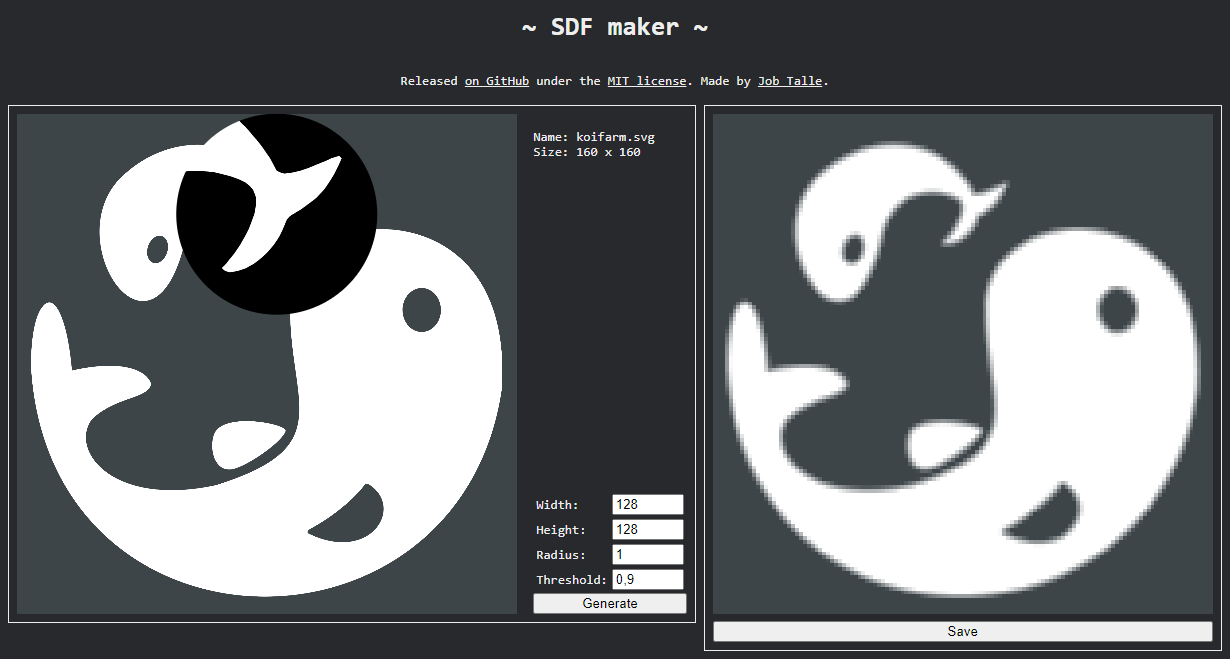
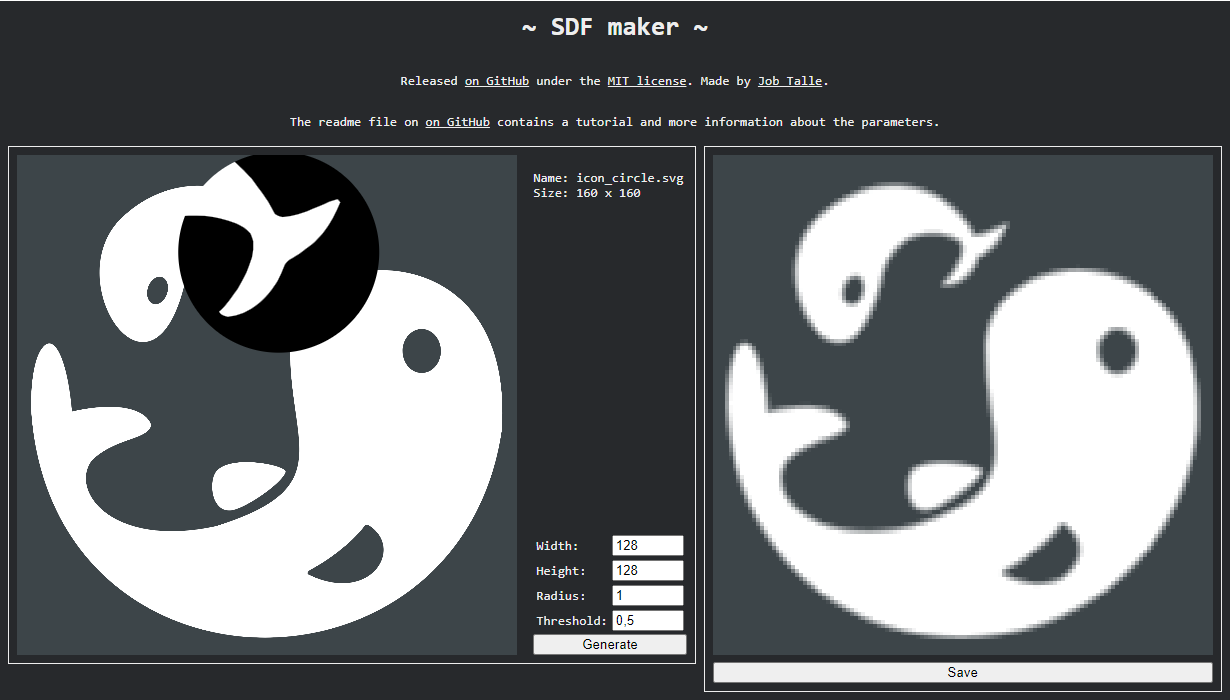
Improved edge anti aliasing quality in preview & example

diff --git a/js/gl/shaderPreview.js b/js/gl/shaderPreview.js
@@ -10,27 +10,31 @@ export class ShaderPreview extends Shader {
         uniform float aspect;
         uniform float zoom;
         uniform sampler2D source;
-        
+
         in vec2 vUv;
-        
+
         out vec4 color;
-        
+
         void main() {
             const float epsilon = .000001;
-            
+
             vec2 uv = vec2(vUv.x, 1. - vUv.y);
             vec2 delta = vec2(uv.x, uv.y / aspect) - center;
-            
+
             vec4 pixel = texture(source, center + (uv - center) / zoom);
-            
+
+            float distance = fwidth(pixel.a) * .5;
+            float lower = .5 - distance;
+            float upper = .5 + distance;
+
             color = vec4(
                 mix(
                     vec3(0.),
                     pixel.rgb,
-                    clamp((pixel.a - .5) / max(fwidth(pixel.a) * .5, epsilon), 0., 1.)),
+                    clamp((pixel.a - lower) / (upper - lower), 0., 1.)),
                 1. - clamp((length(delta) - radius) * radiusPixels, 0., 1.));
         }
-        `;
+    `;
 
     #uniformRadius;
     #uniformRadiusPixels;

diff --git a/README.md b/README.md
@@ -29,6 +29,7 @@ To render SDF textures, the alpha channel of a pixel should not be interpreted a
 
 ``` glsl
 vec4 pixel = texture(source, uv);
+
 vec4 color = vec4(pixel.rgb, step(0.5, pixel.a));
 ```
 
@@ -38,7 +39,12 @@ This example sets alpha to either `0` or `1`. Edges can also be anti aliased usi
 const float epsilon = 0.000001;
 
 vec4 pixel = texture(source, uv);
-float alpha = clamp((pixel.a - 0.5) / max(fwidth(pixel.a) * 0.5, epsilon), 0.0, 1.0);
+
+float distance = fwidth(pixel.a) * .5;
+float lower = .5 - distance;
+float upper = .5 + distance;
+float alpha = clamp((pixel.a - lower) / (upper - lower), 0., 1.));
+
 vec4 color = vec4(pixel.rgb, alpha);
 ```
 
